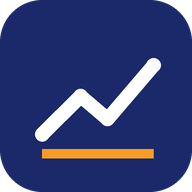
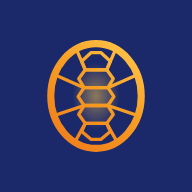
Add files via upload

diff --git a/site/index.html b/site/index.html
@@ -8,23 +8,30 @@
   <title>BafiBourse – votre portefeuille recalculé chaque soir de séance</title>
   <meta name="description" content="Chaque soir de séance BRVM : analyse des actions, obligations et OPCVM, portefeuille cible selon votre profil et ordres pour le rejoindre. Gratuit, sans mot de passe.">
   <meta name="theme-color" content="#0f5c4d">
-  <link rel="icon" href="icon.svg" type="image/svg+xml">
-  <link rel="apple-touch-icon" href="icon.svg">
-  <script src="charte.js?v=20261027d"></script>
-  <link rel="stylesheet" href="styles.css?v=20261027d">
-  <link rel="stylesheet" href="vitrine.css?v=20261027d">
-  <link rel="stylesheet" href="charte-indigo.css?v=20261027d">
-  <script src="boot.js?v=20261027d"></script>
-  <script src="config.js?v=20261027d" defer></script>
-  <script src="vendor/gsap.min.js?v=20261027d" defer></script>
-  <script src="vendor/ScrollTrigger.min.js?v=20261027d" defer></script>
-  <script src="vitrine.js?v=20261027d" defer></script>
+  <link rel="icon" href="icon.svg?v=carapace1" type="image/svg+xml">
+  <link rel="apple-touch-icon" href="apple-touch-icon.png?v=carapace1">
+  <meta property="og:type" content="website">
+  <meta property="og:site_name" content="BafiBourse">
+  <meta property="og:title" content="BafiBourse – épargner chaque jour, investir à la BRVM sans se perdre">
+  <meta property="og:description" content="Épargne régulière, suivi de vos placements chez votre SGI et analyse de chaque titre, chaque soir de séance. Gratuit pour commencer.">
+  <meta property="og:image" content="https://bafibourse.com/og-image.png">
+  <meta property="og:image:width" content="1200"><meta property="og:image:height" content="630">
+  <meta name="twitter:card" content="summary_large_image">
+  <script src="charte.js?v=20261027e"></script>
+  <link rel="stylesheet" href="styles.css?v=20261027e">
+  <link rel="stylesheet" href="vitrine.css?v=20261027e">
+  <link rel="stylesheet" href="charte-indigo.css?v=20261027e">
+  <script src="boot.js?v=20261027e"></script>
+  <script src="config.js?v=20261027e" defer></script>
+  <script src="vendor/gsap.min.js?v=20261027e" defer></script>
+  <script src="vendor/ScrollTrigger.min.js?v=20261027e" defer></script>
+  <script src="vitrine.js?v=20261027e" defer></script>
 </head>
 <body class="vitrine">
   <a class="skip" href="#main">Aller au contenu</a>
 
   <header class="v-top">
-    <a class="brand" href="./"><img src="icon.svg" alt="" width="28" height="28"><span class="marque"><b class="m-bafi">Bafi</b>Bourse</span></a>
+    <a class="brand" href="./"><img src="icon.svg?v=carapace1" alt="" width="28" height="28"><span class="marque"><b class="m-bafi">Bafi</b>Bourse</span></a>
     <nav class="v-nav" aria-label="Sections">
       <a href="#epargne">Épargne</a><a href="#cercles">Cercles</a><a href="#bafibot">BafiBot</a><a href="#import">Import</a><a href="#tarifs">Tarifs</a><a href="#avis" data-avis-lien hidden>Avis</a>
     </nav>
@@ -384,7 +391,7 @@
   <footer class="v-foot" aria-labelledby="pied-titre">
     <div class="pied-haut">
       <div class="pied-marque">
-        <a class="brand" href="./" aria-label="BafiBourse, accueil"><img src="icon.svg" alt="" width="32" height="32"><span class="marque"><b class="m-bafi">Bafi</b>Bourse</span></a>
+        <a class="brand" href="./" aria-label="BafiBourse, accueil"><img src="icon.svg?v=carapace1" alt="" width="32" height="32"><span class="marque"><b class="m-bafi">Bafi</b>Bourse</span></a>
         <p id="pied-titre" class="pied-slogan">Épargner chaque jour, investir à la BRVM sans se perdre.</p>
         <p class="small muted">Épargne et suivi de portefeuille · zone UEMOA</p>
       </div>

diff --git a/site/app/index.html b/site/app/index.html
@@ -7,20 +7,20 @@
   <meta name="description" content="Votre portefeuille BRVM : proposition du soir, ordres, suivi et analyses du marché.">
   <meta name="theme-color" content="#0f5c4d">
   <link rel="manifest" href="manifest.webmanifest">
-  <link rel="icon" href="../icon.svg" type="image/svg+xml">
-  <link rel="apple-touch-icon" href="../icon.svg">
-  <script src="../charte.js?v=20261027d"></script>
-  <link rel="stylesheet" href="../styles.css?v=20261027d">
-  <link rel="stylesheet" href="assistant.css?v=20261027d">
-  <link rel="stylesheet" href="tutoriel.css?v=20261027d">
-  <link rel="stylesheet" href="finitions.css?v=20261027d">
-  <link rel="stylesheet" href="../charte-indigo.css?v=20261027d">
+  <link rel="icon" href="../icon.svg?v=carapace1" type="image/svg+xml">
+  <link rel="apple-touch-icon" href="../apple-touch-icon.png?v=carapace1">
+  <script src="../charte.js?v=20261027e"></script>
+  <link rel="stylesheet" href="../styles.css?v=20261027e">
+  <link rel="stylesheet" href="assistant.css?v=20261027e">
+  <link rel="stylesheet" href="tutoriel.css?v=20261027e">
+  <link rel="stylesheet" href="finitions.css?v=20261027e">
+  <link rel="stylesheet" href="../charte-indigo.css?v=20261027e">
 </head>
 <body>
   <a class="skip" href="#main">Aller au contenu</a>
 
   <header class="topbar">
-    <a class="brand" href="./#aujourdhui" title="Accueil de l'application"><img src="../icon.svg" alt="" width="28" height="28"><span class="marque"><b class="m-bafi">Bafi</b>Bourse</span></a>
+    <a class="brand" href="./#aujourdhui" title="Accueil de l'application"><img src="../icon.svg?v=carapace1" alt="" width="28" height="28"><span class="marque"><b class="m-bafi">Bafi</b>Bourse</span></a>
     <span id="badge-demo" class="chip warn" hidden>Démo</span>
     <nav class="tabs-top" aria-label="Navigation principale" hidden>
       <a href="#aujourdhui" data-tab="aujourdhui">Aujourd'hui</a>
@@ -213,19 +213,19 @@
 
   <div id="toast" class="toast" role="status" aria-live="polite" hidden></div>
 
-  <script src="../config.js?v=20261027d"></script>
-  <script src="../supabase.min.js?v=20261027d"></script>
-  <script src="../pays.js?v=20261027d"></script>
-  <script src="app.js?v=20261027d"></script>
-  <script src="assistant.js?v=20261027d"></script>
-  <script src="tutoriel.js?v=20261027d"></script>
-  <script src="avis.js?v=20261027d"></script>
-  <script src="import.js?v=20261027d"></script>
-  <script src="glossaire.js?v=20261027d"></script>
-  <script src="rappels.js?v=20261027d"></script>
-  <script src="cercles.js?v=20261027d"></script>
-  <script src="identite.js?v=20261027d"></script>
-  <script src="abonnement.js?v=20261027d"></script>
-  <script src="sommaire.js?v=20261027d"></script>
+  <script src="../config.js?v=20261027e"></script>
+  <script src="../supabase.min.js?v=20261027e"></script>
+  <script src="../pays.js?v=20261027e"></script>
+  <script src="app.js?v=20261027e"></script>
+  <script src="assistant.js?v=20261027e"></script>
+  <script src="tutoriel.js?v=20261027e"></script>
+  <script src="avis.js?v=20261027e"></script>
+  <script src="import.js?v=20261027e"></script>
+  <script src="glossaire.js?v=20261027e"></script>
+  <script src="rappels.js?v=20261027e"></script>
+  <script src="cercles.js?v=20261027e"></script>
+  <script src="identite.js?v=20261027e"></script>
+  <script src="abonnement.js?v=20261027e"></script>
+  <script src="sommaire.js?v=20261027e"></script>
 </body>
 </html>

diff --git a/site/admin/index.html b/site/admin/index.html
@@ -8,16 +8,16 @@
   <meta name="robots" content="noindex, nofollow">
   <title>Administration – BafiBourse</title>
   <meta name="theme-color" content="#0f5c4d">
-  <link rel="icon" href="../icon.svg" type="image/svg+xml">
-  <script src="../charte.js?v=20261027d"></script>
-  <link rel="stylesheet" href="../styles.css?v=20261027d">
-  <link rel="stylesheet" href="admin.css?v=20261027d">
-  <link rel="stylesheet" href="../charte-indigo.css?v=20261027d">
+  <link rel="icon" href="../icon.svg?v=carapace1" type="image/svg+xml">
+  <script src="../charte.js?v=20261027e"></script>
+  <link rel="stylesheet" href="../styles.css?v=20261027e">
+  <link rel="stylesheet" href="admin.css?v=20261027e">
+  <link rel="stylesheet" href="../charte-indigo.css?v=20261027e">
 </head>
 <body class="admin">
   <a class="skip" href="#main">Aller au contenu</a>
   <header class="topbar">
-    <div class="brand"><img src="../icon.svg" alt="" width="28" height="28"><span class="marque"><b class="m-bafi">Bafi</b>Bourse</span></div>
+    <div class="brand"><img src="../icon.svg?v=carapace1" alt="" width="28" height="28"><span class="marque"><b class="m-bafi">Bafi</b>Bourse</span></div>
     <span class="chip warn">Administration</span>
     <div class="who" id="who" hidden>
       <span id="who-email" class="small muted"></span>
@@ -78,9 +78,9 @@
   </dialog>
   <div id="toast" class="toast" role="status" aria-live="polite" hidden></div>
 
-  <script src="../config.js?v=20261027d"></script>
-  <script src="../supabase.min.js?v=20261027d"></script>
-  <script src="../pays.js?v=20261027d"></script>
-  <script src="admin.js?v=20261027d"></script>
+  <script src="../config.js?v=20261027e"></script>
+  <script src="../supabase.min.js?v=20261027e"></script>
+  <script src="../pays.js?v=20261027e"></script>
+  <script src="admin.js?v=20261027e"></script>
 </body>
 </html>

diff --git a/site/charte.js b/site/charte.js
@@ -24,8 +24,8 @@
   document.addEventListener("DOMContentLoaded", function () {
     var m = document.querySelector('meta[name="theme-color"]');
     if (m) m.setAttribute("content", CHARTES[choix]);
-    if (choix !== "vert") document.querySelectorAll('img[src$="icon.svg"]').forEach(function (img) {
-      img.src = img.getAttribute("src").replace(/icon\.svg$/, "icon-" + choix + ".svg");
+    if (choix !== "vert") document.querySelectorAll('img[src*="icon.svg"]').forEach(function (img) {
+      img.src = img.getAttribute("src").replace(/icon\.svg/, "icon-" + choix + ".svg");
     });
   });
 })();

diff --git a/site/app/sw.js b/site/app/sw.js
@@ -8,7 +8,7 @@ self.addEventListener("push", (e) => {
   try { m = e.data ? e.data.json() : {}; } catch (err) { m = { texte: e.data ? e.data.text() : "" }; }
   e.waitUntil(self.registration.showNotification(m.titre || "BafiBourse", {
     body: m.texte || "Votre récap du soir est prêt.",
-    icon: "../icon-192.png", badge: "../icon-192.png", lang: "fr",
+    icon: "../icon-192.png?v=carapace1", badge: "../icon-192.png?v=carapace1", lang: "fr",
     tag: "recap-du-soir", renotify: true,                  // un seul rappel affiché à la fois
     data: { url: m.url || "./#aujourdhui" },
   }));
